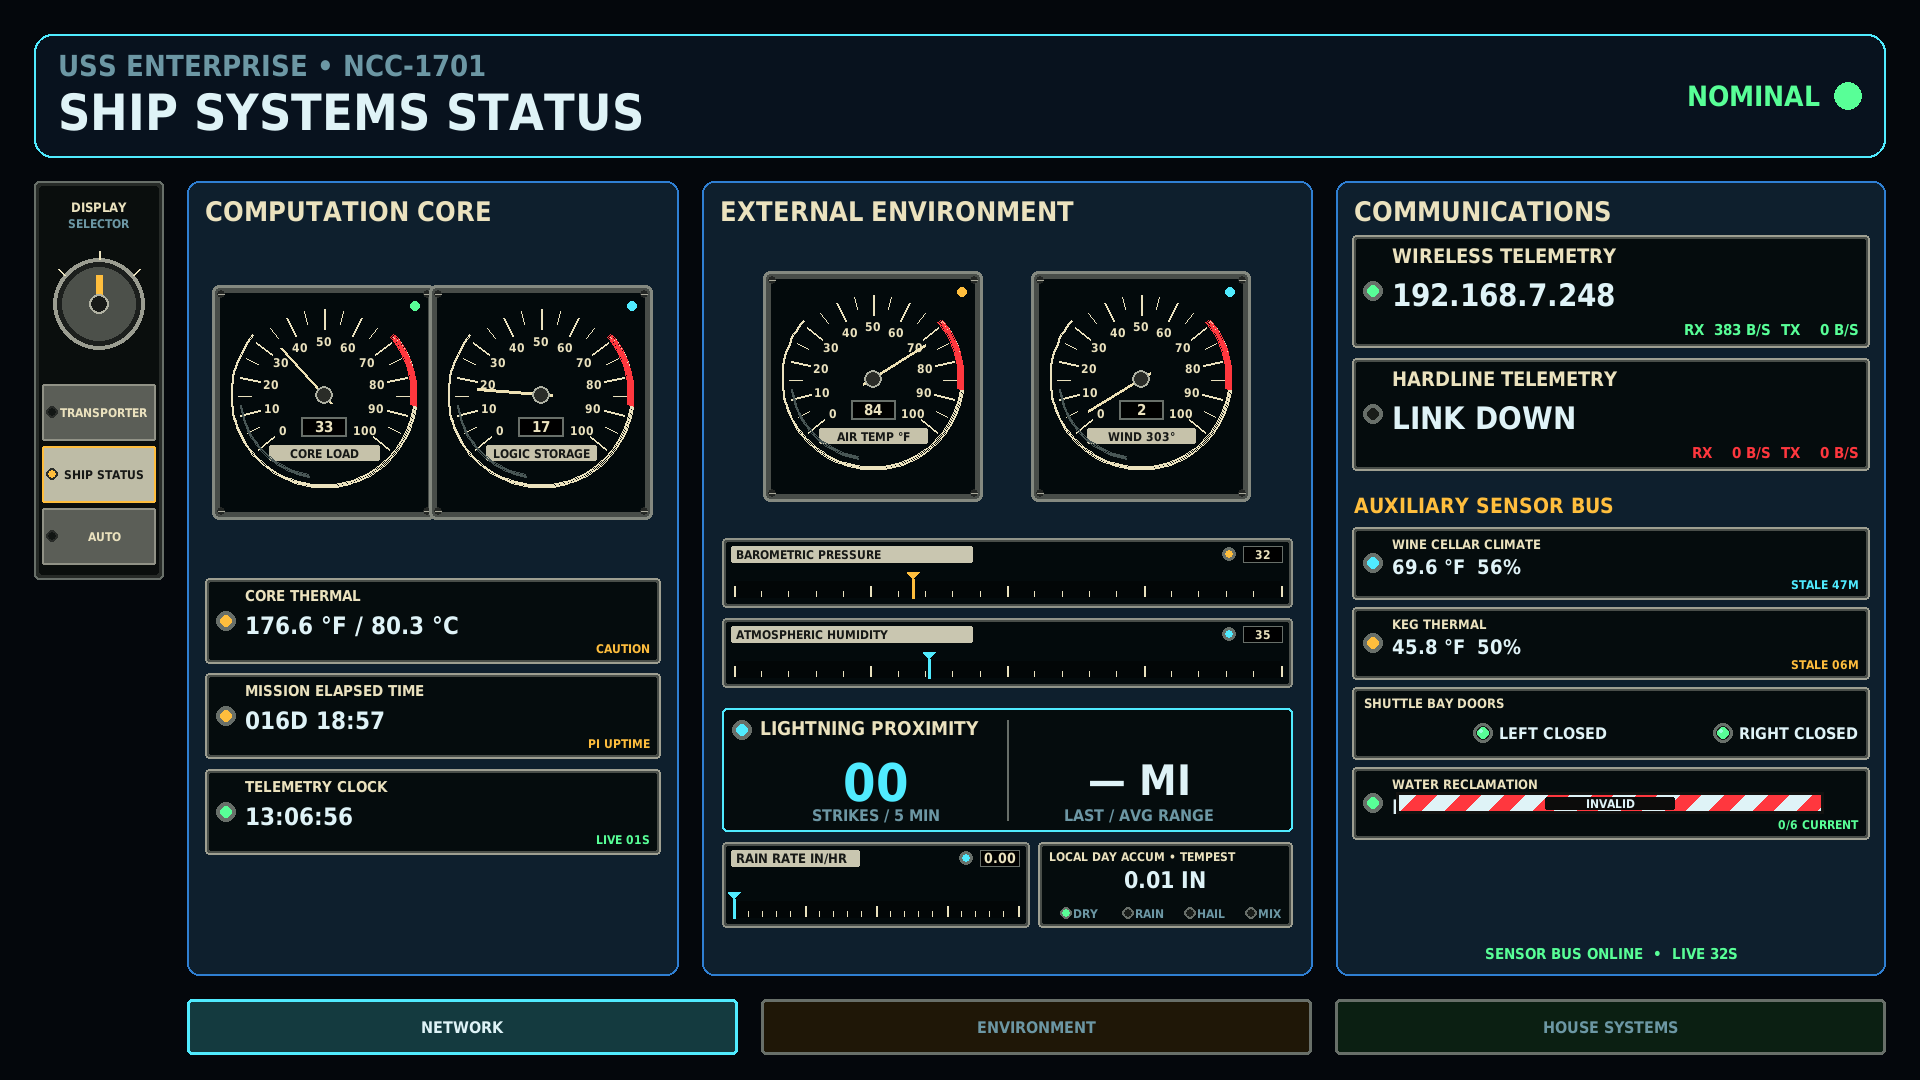
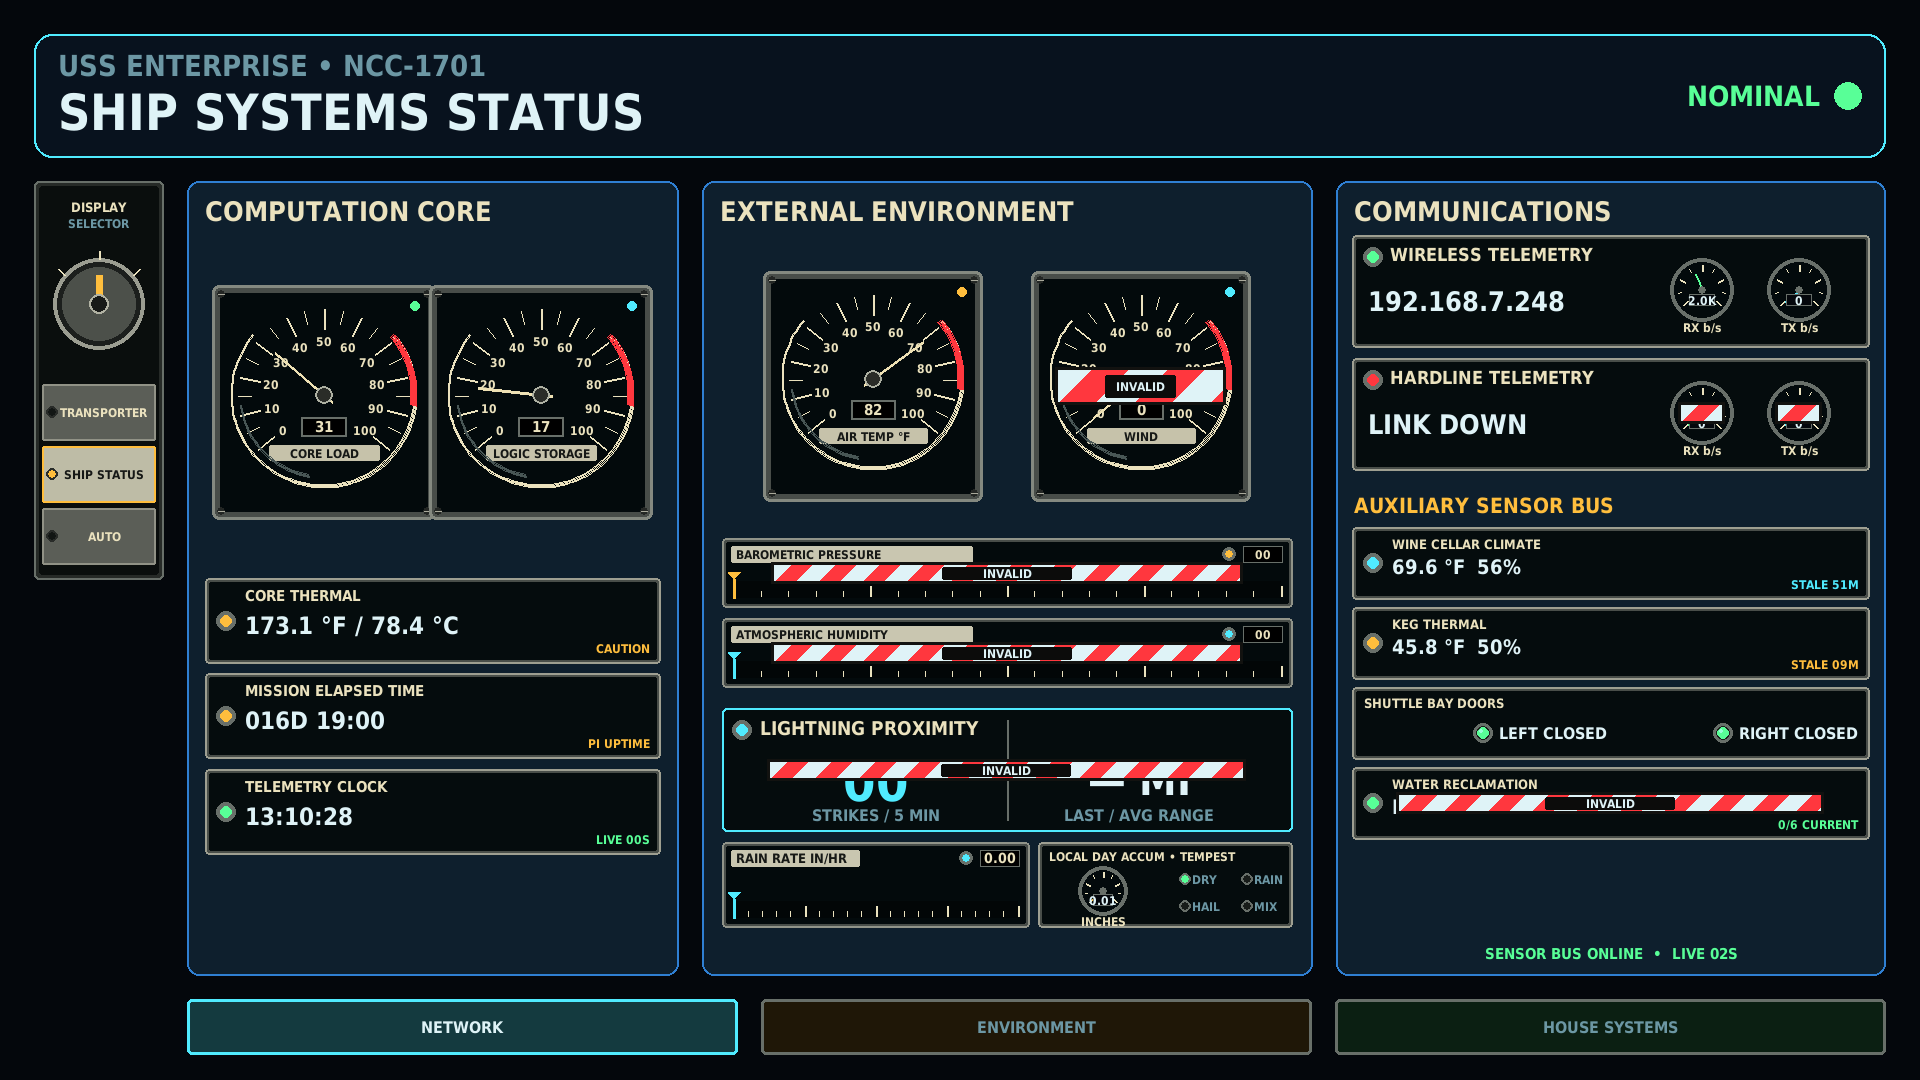
Convert rain and network readouts to dials

diff --git a/startrek.py b/startrek.py
@@ -406,10 +406,11 @@ def invalid_data_flag(surface, rect, label="INVALID"):
                              (x + stripe + bar.h, bar.top), (x + bar.h, bar.top)])
     surface.set_clip(previous_clip)
     pygame.draw.rect(surface, (18, 18, 16), bar, 3)
-    plate = pygame.Rect(0, 0, min(int(bar.w * .42), 130), int(bar.h * .62))
-    plate.center = bar.center
-    pygame.draw.rect(surface, (12, 12, 11), plate, border_radius=2)
-    txt(surface, label, plate.h * .55, WHITE, plate.center, "center", True)
+    if bar.w >= 80:
+        plate = pygame.Rect(0, 0, min(int(bar.w * .42), 130), int(bar.h * .62))
+        plate.center = bar.center
+        pygame.draw.rect(surface, (12, 12, 11), plate, border_radius=2)
+        txt(surface, label, plate.h * .55, WHITE, plate.center, "center", True)
 
 def bar(surface, rect, value, color=CYAN, segments=20):
     gap = max(2, rect.w // 140)
@@ -930,6 +931,14 @@ def format_rate(value):
         return f"{value / 1024:4.1f} KB/S"
     return f"{value:4.0f} B/S"
 
+def format_bitrate(bytes_per_second):
+    bits = max(0.0, float(bytes_per_second or 0)) * 8
+    if bits >= 1_000_000:
+        return f"{bits / 1_000_000:.1f}M"
+    if bits >= 1_000:
+        return f"{bits / 1_000:.1f}K"
+    return f"{bits:.0f}"
+
 def data_age(timestamp):
     if not timestamp:
         return "NO DATA", RED
@@ -954,6 +963,59 @@ def telemetry_card(surface, rect, label, value, detail="", color=GREEN, state=Tr
         txt(surface, detail, rect.h * .14, color, (inner.right - 7, inner.bottom - 5), "bottomright", True)
     if not valid:
         invalid_data_flag(surface, inner)
+
+def mini_dial(surface, center, radius, value, label, readout, color, valid=True):
+    """Compact panel-mounted analog indicator for dense status cards."""
+    value = max(0.0, min(1.0, float(value or 0)))
+    pygame.draw.circle(surface, BEZEL, center, radius + 4)
+    pygame.draw.circle(surface, INSTRUMENT, center, radius)
+    start, span = math.radians(140), math.radians(260)
+    for index in range(9):
+        angle = start + span * index / 8
+        outer = (center[0] + math.cos(angle) * radius * .86,
+                 center[1] + math.sin(angle) * radius * .86)
+        inner = (center[0] + math.cos(angle) * radius * (.66 if index % 2 == 0 else .73),
+                 center[1] + math.sin(angle) * radius * (.66 if index % 2 == 0 else .73))
+        pygame.draw.line(surface, CREAM, inner, outer, 2 if index % 2 == 0 else 1)
+    needle = start + span * value
+    endpoint = (center[0] + math.cos(needle) * radius * .62,
+                center[1] + math.sin(needle) * radius * .62)
+    pygame.draw.line(surface, color, center, endpoint, 2)
+    pygame.draw.circle(surface, BEZEL, center, 4)
+    readout_rect = pygame.Rect(center[0] - int(radius * .48), center[1] + int(radius * .16),
+                               int(radius * .96), max(12, int(radius * .30)))
+    pygame.draw.rect(surface, BLACK, readout_rect)
+    pygame.draw.rect(surface, BEZEL, readout_rect, 1)
+    txt(surface, readout, radius * .23, WHITE, readout_rect.center, "center", True)
+    txt(surface, label, radius * .25, CREAM,
+        (center[0], center[1] + radius + 2), "midtop", True)
+    if not valid:
+        invalid_data_flag(surface, pygame.Rect(center[0] - radius, center[1] - radius,
+                                               radius * 2, radius * 2))
+
+def network_instrument_card(surface, rect, label, info):
+    """Network link card with independent logarithmic RX and TX bit-rate dials."""
+    pygame.draw.rect(surface, (73, 78, 73), rect, border_radius=4)
+    pygame.draw.rect(surface, (158, 159, 145), rect, 2, border_radius=4)
+    inner = rect.inflate(-8, -8)
+    pygame.draw.rect(surface, (5, 12, 13), inner, border_radius=2)
+    link_up = bool(info.get("up"))
+    lamp = (inner.x + 17, inner.y + 18)
+    pygame.draw.circle(surface, BEZEL, lamp, 10)
+    pygame.draw.circle(surface, GREEN if link_up else RED, lamp, 6)
+    txt(surface, label, rect.h * .16, CREAM, (inner.x + 34, inner.y + 5), bold=True)
+    txt(surface, info.get("ipv4", "LINK DOWN") if link_up else "LINK DOWN",
+        rect.h * .24, WHITE, (inner.x + 12, inner.centery + 10), "midleft", True)
+    radius = max(22, int(rect.h * .25))
+    centers = ((inner.x + int(inner.w * .68), inner.centery - 1),
+               (inner.x + int(inner.w * .87), inner.centery - 1))
+    for center, key, dial_label, color in ((centers[0], "rx_rate", "RX b/s", GREEN),
+                                           (centers[1], "tx_rate", "TX b/s", CYAN)):
+        byte_rate = float(info.get(key) or 0)
+        bit_rate = byte_rate * 8
+        normalized = min(1.0, math.log10(1 + bit_rate) / 8.0)
+        mini_dial(surface, center, radius, normalized, dial_label,
+                  format_bitrate(byte_rate), color, link_up)
 
 def dual_door_card(surface, rect, left_state, right_state, valid=True):
     """Two independent, bezel-mounted shuttle-bay door indicators."""
@@ -991,7 +1053,7 @@ def precipitation_panel(surface, rect, rate_inh, precip_type, total_in, source,
     pygame.draw.rect(surface, (158, 159, 145), total_rect, 2, border_radius=4)
     inner = total_rect.inflate(-8, -8)
     pygame.draw.rect(surface, (5, 12, 13), inner, border_radius=2)
-    txt(surface, f"LOCAL DAY ACCUM • {source}", rect.h * .14, CREAM,
+    txt(surface, f"LOCAL DAY ACCUM • {source}", rect.h * .13, CREAM,
         (inner.x + 7, inner.y + 3), bold=True)
     if total_in is None:
         total_text = "— IN"
@@ -999,16 +1061,20 @@ def precipitation_panel(surface, rect, rate_inh, precip_type, total_in, source,
         total_text = "TRACE"
     else:
         total_text = f"{total_in:.2f} IN"
-    txt(surface, total_text, rect.h * .27, WHITE,
-        (inner.centerx, inner.y + int(inner.h * .43)), "center", True)
+    dial_center = (inner.x + int(inner.w * .25), inner.y + int(inner.h * .58))
+    total_scale = min(1.0, max(0.0, float(total_in or 0)) / 5.0)
+    mini_dial(surface, dial_center, max(20, int(rect.h * .25)), total_scale,
+              "INCHES", total_text.replace(" IN", ""), AMBER, total_valid)
     types = ((0, "DRY"), (1, "RAIN"), (2, "HAIL"), (3, "MIX"))
     for index, (code, label) in enumerate(types):
-        x = int(inner.x + inner.w * (.10 + index * .25))
+        column, row = index % 2, index // 2
+        x = int(inner.x + inner.w * (.58 + column * .25))
+        y = int(inner.y + inner.h * (.43 + row * .34))
         color = GREEN if code == 0 else CYAN if code == 1 else AMBER if code == 2 else RED
-        pygame.draw.circle(surface, BEZEL, (x, inner.bottom - 11), 6)
+        pygame.draw.circle(surface, BEZEL, (x, y), 6)
         pygame.draw.circle(surface, color if precip_type == code else (24, 28, 25),
-                           (x, inner.bottom - 11), 4)
-        txt(surface, label, rect.h * .095, MUTED, (x + 7, inner.bottom - 11), "midleft", True)
+                           (x, y), 4)
+        txt(surface, label, rect.h * .095, MUTED, (x + 7, y), "midleft", True)
     if not total_valid:
         invalid_data_flag(surface, inner)
 
@@ -1142,10 +1208,7 @@ def draw_ship_status(surface, now, data):
     for index, (name, label) in enumerate((("wlan0", "WIRELESS TELEMETRY"), ("eth0", "HARDLINE TELEMETRY"))):
         info = network.get(name, {})
         card = pygame.Rect(right.x + 16, network_y + index * (network_h + 10), right.w - 32, network_h)
-        state = bool(info.get("up"))
-        detail = f"RX {format_rate(info.get('rx_rate'))}  TX {format_rate(info.get('tx_rate'))}"
-        value = f"{info.get('ipv4', '—')}" if state else "LINK DOWN"
-        telemetry_card(surface, card, label, value, detail, GREEN if state else RED, state)
+        network_instrument_card(surface, card, label, info)
     aux_y = network_y + 2 * (network_h + 10) + 12
     txt(surface, "AUXILIARY SENSOR BUS", h * .020, AMBER, (right.x + 18, aux_y), bold=True)
     aux_y += 34

diff --git a/README.md b/README.md
@@ -88,8 +88,9 @@ strike distance in miles. `evt_strike` updates distance immediately without
 also incrementing the observation count, preventing duplicate strikes.
 
 The precipitation module uses an edgewise tape for rain rate in inches/hour,
-four bezel lamps for DRY/RAIN/HAIL/MIX, and a mechanical-style `LOCAL DAY ACCUM`
-counter. The service-provided value resets at local midnight; `TRACE` is shown
+four bezel lamps for DRY/RAIN/HAIL/MIX, and a compact analog `LOCAL DAY ACCUM`
+dial. Network cards likewise use separate logarithmic RX/TX bit-rate dials so
+quiet traffic and bursts both remain visible. The service-provided rain value resets at local midnight; `TRACE` is shown
 for a nonzero amount that would otherwise round to `0.00 IN`.
 
 Stale or invalid instrument inputs deploy a red-and-white striped `INVALID`
